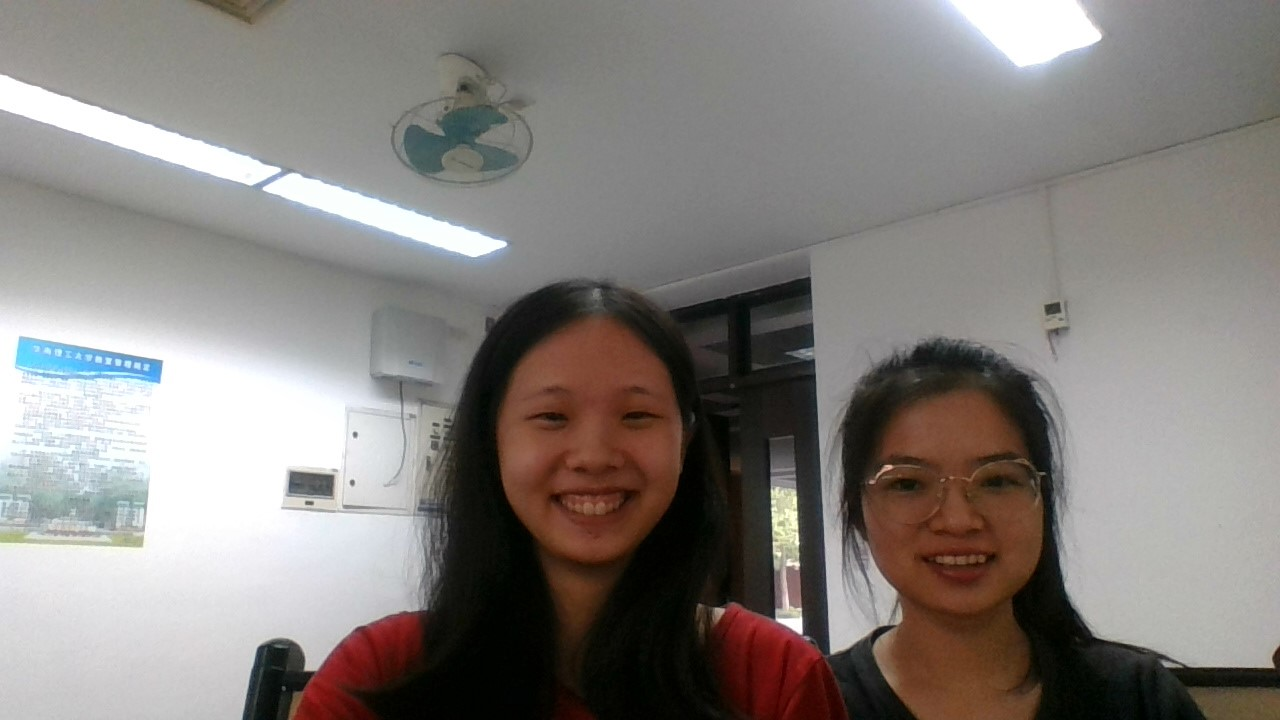
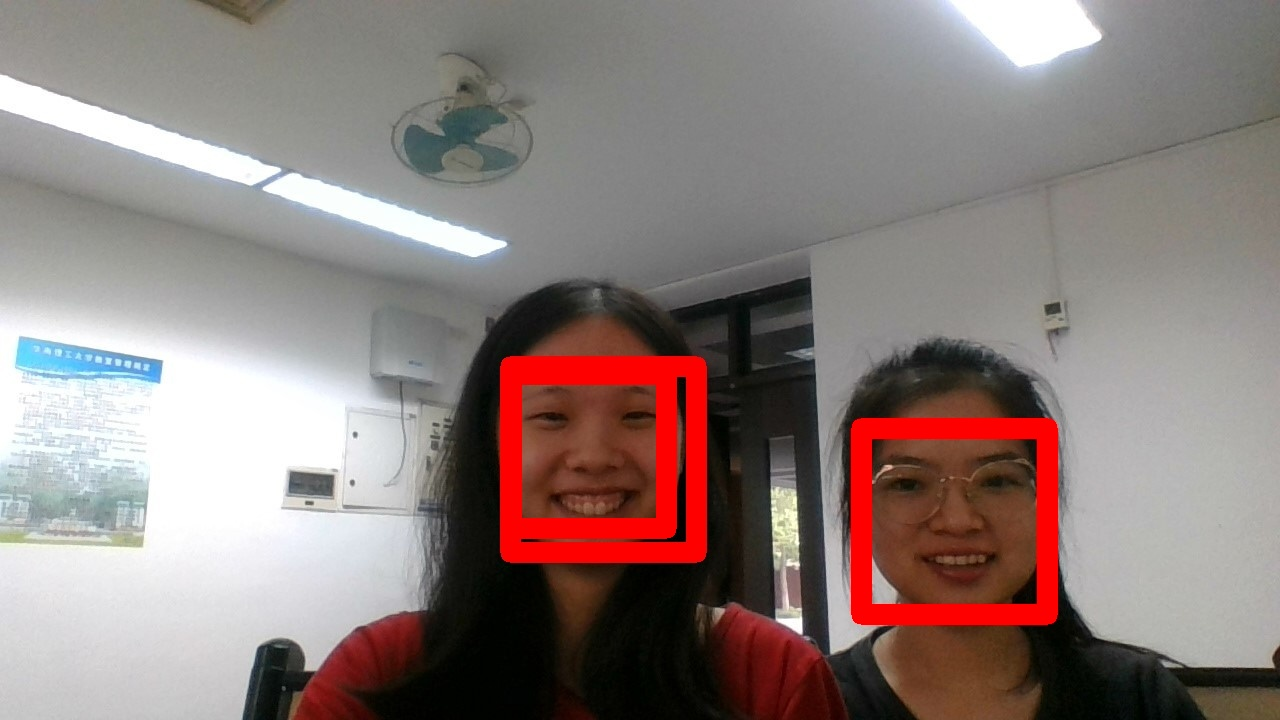
fix a bug that return an unknown face; slightly improve performance

Changed region(s): [[0.375, 0.4889, 0.5625, 0.7944], [0.6562, 0.5806, 0.8438, 0.8861]]

diff --git a/face.py b/face.py
@@ -1,30 +1,20 @@
 import base64
 import io
-
 import PIL
 import cv2
 import face_recognition
-import mysql
 import numpy as np
 import pymysql
 import operator
 import connect
 
 
-def encoding0_15ToNp_encoding(id):
-    sql = "SELECT * FROM person where id=%d" % id
-    cursor.execute(sql)
-    row = cursor.fetchone()
-    # 依次遍历结果集，发现每个元素，就是表中的一条记录，用一个元组来显示
-    encodingList = []
-    for i in range(0, 16):
-        j = i + 4
-        encodingList.append(row[j])
+def encoding0_15ToNp_encoding(encodingList):
     floatList = []
     for item in encodingList:
-        strTOlist = item.split(',')
-        strTOlist = list(map(eval, strTOlist))
-        floatList.append(strTOlist)
+        strTolist = item.split(',')
+        strTolist = list(map(eval, strTolist))
+        floatList.append(strTolist)
     floatList = np.array(floatList)
     floatList = floatList.reshape(128)
     return floatList
@@ -34,6 +24,7 @@ conn = connect.init()
 cursor = conn.cursor()
 
 
+# todo: implement detecting Similarity
 def detect(image_path, known_face_encodings, known_face_names, images):
     print("processing picture")
 
@@ -47,18 +38,17 @@ def detect(image_path, known_face_encodings, known_face_names, images):
         # See if the face is a match for the known face(s)
         # 摄像中的人脸与已知人脸对比
         matches = face_recognition.compare_faces(known_face_encodings, face_encoding)
+        print(matches)
         name = "Unknown"
+        known_str = imgToStr("faces/Unknown.jpg")
         # face_distance用于计算相似度，距离越小越相似
         face_distances = face_recognition.face_distance(known_face_encodings, face_encoding)
         # argmin取最小值
         best_match_index = np.argmin(face_distances)
         if matches[best_match_index]:
             name = known_face_names[best_match_index]
-            # known_str = imgToStr(images[best_match_index])  # todo
-            known_str = binToStr(images[best_match_index])  # todo
-            # photo_encoding=known_face_encodings[best_match_index]
+            known_str = binToStr(images[best_match_index])
         face_names.append(name)
-        # print("known_str:"+known_str)
         photo_str.append(known_str)
 
     image1 = cv2.imread(image_path)
@@ -162,91 +152,19 @@ def insertSql(name, img_path):
 if __name__ == "__main__":
     known_face_encodings = []
     known_face_names = []
-    images = []
+    known_face_images = []
+
     sql = "SELECT * FROM person"
     cursor.execute(sql)
     rows = cursor.fetchall()
+
     # 依次遍历结果集，发现每个元素，就是表中的一条记录，用一个元组来显示
     for row in rows:
-        id = row[0]
-        known_face_encodings.append(encoding0_15ToNp_encoding(id))
-        name = row[1]
-        known_face_names.append(name)
-        image_data = row[3]
-        images.append(image_data)
+        # row[1] is name
+        # row[3] is image in binary data
+        # row[4:20] is face_encoding
+        known_face_names.append(row[1])
+        known_face_images.append(row[3])
+        known_face_encodings.append(encoding0_15ToNp_encoding(row[4:20]))
 
-    detect("faces/both.jpg", known_face_encodings, known_face_names, images)
-
-    # detect("faces/woman.jpg")
-    # insertSql("ysy", "faces/ysy.jpg")
-    # insertSql("xm", "faces/xm.jpg")
-    # encoding0_15ToNp_encoding(17)
-    # print("main()")
-
-    # 用元祖插入数据库
-    # img = face_recognition.load_image_file("faces/ysy.jpg")
-    # encoding = face_recognition.face_encodings(img)[0]
-    # encodings = np.array(encoding).reshape(16, 8)
-    # encodingList = encodings.tolist()
-    # strEncodingList = []
-    # for i in range(0, 16):
-    #     strEncoding = [str(x) for x in encodingList[i]]
-    #     string = ",".join(strEncoding)
-    #     strEncodingList.append(string)
-    #     # print(string)
-    # fp = open("faces/ysy.jpg", 'rb')
-    # img = fp.read()
-    # fp.close()
-    # imgTuple = ("ysy", "faces/ysy.jpg", pymysql.Binary(img))
-    # encodingTuple = tuple(strEncodingList)
-    # tuple = imgTuple + encodingTuple
-    # # print(tuple)
-    # sql = "INSERT INTO person(name,img_path,img,encoding0,encoding1,encoding2,encoding3,encoding4,encoding5,encoding6,encoding7,encoding8,encoding9,encoding10,encoding11,encoding12,encoding13,encoding14,encoding15) values(%s,%s,%s,%s,%s,%s,%s,%s,%s,%s,%s,%s,%s,%s,%s,%s,%s,%s,%s)"
-    # try:
-    #     # 执行sql
-    #     cursor.execute(sql, tuple)
-    #     conn.commit()
-    #     print("插入数据成功")
-    # except Exception as e:
-    #     print(e)
-    #     conn.rollback()
-    #     print("插入数据失败")
-
-    # strEncodingList=['' for i in range]
-    # print(strEncodingList)
-    # # print(encodingList)
-    # encodings=[[] for i in range(10)]
-    # encodings[0]=encodingList[0:10]
-    # print(encodings[0])
-    # print(len(encodings[0]))
-    # newEncodingList = [str(x) for x in encodingList]
-    # string=",".join(newEncodingList)
-    # print(string)
-
-    # strTOlist=string.split(',')
-    # print(strTOlist)
-    # strTOlist=list(map(eval,strTOlist))
-    # print(strTOlist)
-    # for item in encodingList:
-    #     result+=item
-    # print(ecoding)
-    # print(type(ecoding))
-    # print(encoding)
-    # print(type(encoding))
-
-    # np和list相互转换
-    # list转numpy
-    # np.array(a)
-    # ndarray转list
-    # a.tolist()
-
-    # 查询row[0]该行的第一列
-    # sql = "SELECT *FROM person"
-    # cursor.execute(sql)
-    # # 打印执行结果的条数
-    # print("表格行数：")
-    # print(cursor.rowcount)
-    # 将所有的结果放入rr中
-    # rr = cursor.fetchall()
-    # for row in rr:
-    #     print("ID是：=%s, img_path是：=%s, name是：=%s" % row)
+    detect("faces/both.jpg", known_face_encodings, known_face_names, known_face_images)

diff --git a/server.py b/server.py
@@ -5,25 +5,26 @@ import base64
 import face
 import connect
 
-conn = connect.init()
-cursor = conn.cursor()
+# ******************************************init******************************************
 known_face_encodings = []
 known_face_names = []
-images = []
+known_face_images = []
+
+conn = connect.init()
+cursor = conn.cursor()
 sql = "SELECT * FROM person"
 cursor.execute(sql)
 rows = cursor.fetchall()
-# 依次遍历结果集，发现每个元素，就是表中的一条记录，用一个元组来显示
+
 for row in rows:
-    id = row[0]
-    known_face_encodings.append(face.encoding0_15ToNp_encoding(id))
-    name = row[1]
-    known_face_names.append(name)
-    image_data = row[3]
-    images.append(image_data)
+    # todo: when modify the database structure remember to modify here
+    known_face_names.append(row[1])
+    known_face_images.append(row[3])
+    known_face_encodings.append(face.encoding0_15ToNp_encoding(row[4:20]))
 
-# todo: modify using id in encoding0_15 to using row
+# ******************************************init******************************************
 
+# turn on the server
 app = Flask(__name__)
 
 
@@ -49,7 +50,7 @@ def get_frame():
             file = open('result.png', 'wb')
             file.write(image_data)
             file.close()
-            return face.detect("result.png", known_face_encodings, known_face_names, images)
+            return face.detect("result.png", known_face_encodings, known_face_names, known_face_images)
         else:
             return 'fail'
         # todo: deal with the fail situation
